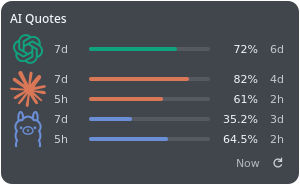
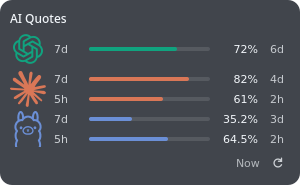
Release v1.3.0 with compact provider-colored quota cards

Changed region(s): [[0.0, 0.0, 0.99, 1.0], [0.99, 0.027, 1.0, 0.973]]

diff --git a/package/contents/ui/FullRepresentation.qml b/package/contents/ui/FullRepresentation.qml
@@ -30,7 +30,6 @@ PC.Control {
     readonly property bool showTitle: titleAlignment !== 3
     readonly property color surfaceColor: themeMode === 1 ? "#f8fafc" : themeMode === 2 ? "#171c25" : Kirigami.Theme.backgroundColor
     readonly property color inkColor: themeMode === 1 ? "#17212d" : themeMode === 2 ? "#f1f5f9" : Kirigami.Theme.textColor
-    readonly property color warningColor: themeMode === 1 ? "#9a6700" : themeMode === 2 ? "#f5c46b" : Kirigami.Theme.neutralTextColor
     readonly property color negativeColor: themeMode === 1 ? "#c02832" : themeMode === 2 ? "#ff7b86" : Kirigami.Theme.negativeTextColor
     property font labelFont: {
         const bodyFont = Lib.scaledFont(Kirigami.Theme.smallFont, 1);
@@ -116,15 +115,6 @@ PC.Control {
         objectName: "translucentSurface"
         radius: 12
         color: Qt.rgba(full.surfaceColor.r, full.surfaceColor.g, full.surfaceColor.b, Math.max(0, Math.min(100, full.backgroundOpacity)) / 100)
-        border.width: 1
-        border.color: Qt.rgba(full.inkColor.r, full.inkColor.g, full.inkColor.b, 0.07)
-    }
-
-    function quotaColor(value, providerId) {
-        if (typeof value !== "number") return full.inkColor;
-        if (value <= 10) return full.negativeColor;
-        if (value <= 25) return full.warningColor;
-        return Lib.colorFor(providerId);
     }
 
     contentItem: ColumnLayout {
@@ -167,8 +157,14 @@ PC.Control {
                     // The stock native tooltip limits its subtext line count.
                     // Keep its window, but provide an untruncated content item.
                     mainItem: Item {
-                        implicitWidth: Math.max(1, Math.min(360, Screen.desktopAvailableWidth - 32))
-                        implicitHeight: tooltipLabel.implicitHeight + 16
+                        implicitWidth: {
+                            let width = 0;
+                            provider.tooltipText.split("\n").forEach(function (line) {
+                                width = Math.max(width, full.textWidth(line));
+                            });
+                            return Math.max(1, Math.min(360, Math.ceil(width) + 12, Screen.desktopAvailableWidth - 32));
+                        }
+                        implicitHeight: tooltipLabel.implicitHeight + 12
                         Kirigami.Theme.colorSet: Kirigami.Theme.Window
                         Kirigami.Theme.inherit: false
                         PC.Label {
@@ -176,8 +172,9 @@ PC.Control {
                             anchors.left: parent.left
                             anchors.right: parent.right
                             anchors.top: parent.top
-                            anchors.margins: 8
+                            anchors.margins: 6
                             text: provider.tooltipText
+                            font: full.labelFont
                             textFormat: Text.PlainText
                             wrapMode: Text.Wrap
                         }
@@ -256,7 +253,7 @@ PC.Control {
                                         opacity: provider.stale ? 0.6 : 1
                                         caption: Lib.shortWindowLabel(window.modelData)
                                         inkColor: full.inkColor
-                                        accentColor: full.quotaColor(window.hasPercent ? window.modelData.remaining_percent : null, provider.modelData.id)
+                                        accentColor: Lib.colorFor(provider.modelData.id)
                                         valueObjectName: "quota_" + provider.modelData.id + "_" + window.modelData.key
                                         valueText: Lib.valueFor(provider.modelData, window.modelData, full.nowMs, full.maxAge)
                                         Accessible.name: provider.modelData.label + ", " + window.modelData.label + ", " + i18n("available") + ": " + valueText

diff --git a/package/contents/ui/lib.js b/package/contents/ui/lib.js
@@ -80,16 +80,17 @@ function providerSummary(provider, nowMs, maxAge) {
 
 function providerTooltip(provider, nowMs, maxAge) {
     var critical = headline(provider, nowMs, maxAge);
-    var lines = [provider.label + (isStale(provider, nowMs, maxAge) ? " · Stale data" : "")];
+    var lines = [provider.label + " · Available" + (isStale(provider, nowMs, maxAge) ? " · Stale data" : "")];
     (provider.windows || []).forEach(function (window) {
-        lines.push(window.label + ": " + valueFor(provider, window, nowMs, maxAge)
-            + " available" + (critical && critical.key === window.key ? " · Most restrictive" : ""));
-        lines.push(countdown(window.resets_at, nowMs)
-            + (window.resets_at ? " · " + Qt.formatDateTime(new Date(window.resets_at * 1000), Qt.locale().dateTimeFormat()) : ""));
+        var label = window.key === "purchased" ? window.label : shortWindowLabel(window);
+        lines.push(label + ": " + valueFor(provider, window, nowMs, maxAge)
+            + " · " + countdown(window.resets_at, nowMs)
+            + (window.resets_at ? " (" + Qt.formatDateTime(new Date(window.resets_at * 1000), "dd MMM, HH:mm") + ")" : ""));
     });
+    if (critical && !displayWindows(provider).some(function (window) { return window.key === critical.key; }))
+        lines.push("Most restrictive: " + critical.label);
     if (provider.message) lines.push(provider.message);
-    if (provider.source) lines.push(provider.source);
-    lines.push(ageLabel(provider.fetched_at, nowMs));
+    lines.push((provider.source ? provider.source + " · " : "") + ageLabel(provider.fetched_at, nowMs));
     return lines.join("\n");
 }
 
@@ -117,12 +118,7 @@ function countdown(epoch, nowMs) {
     if (!epoch) return "Reset time unavailable";
     var remaining = epoch - nowMs / 1000;
     if (remaining <= 0) return "Waiting for a new query";
-    var days = Math.floor(remaining / 86400);
-    var hours = Math.floor(remaining % 86400 / 3600);
-    var minutes = Math.floor(remaining % 3600 / 60);
-    if (days > 0) return "Resets in " + days + "d " + hours + "h";
-    if (hours > 0) return "Resets in " + hours + "h " + minutes + "m";
-    return "Resets in " + Math.max(1, minutes) + "m";
+    return "Resets in " + shortDuration(remaining);
 }
 
 function validTimestamp(epoch) {

diff --git a/tests/validate_ui.py b/tests/validate_ui.py
@@ -261,7 +261,8 @@ def validate():
             find_item(root, 'bar_claude_seven_day_sonnet') is None
             and find_item(root, 'bar_claude_five_hour') is not None
             and find_item(root, 'bar_claude_seven_day') is not None
-            and 'Sonnet · weekly: 3% available · Most restrictive' in tooltip)
+            and 'Sonnet · weekly: 3%' in tooltip
+            and 'Most restrictive: Sonnet · weekly' in tooltip)
         usd = json.loads(json.dumps(data))
         usd['providers'][2]['windows'] = [{'key': 'purchased', 'label': 'Purchased credits',
                                           'remaining_percent': None, 'remaining_usd': 25, 'resets_at': None}]
@@ -416,7 +417,7 @@ def validate():
         provider.forceActiveFocus()
         QTest.qWait(900)
         details = provider.property('tooltipText')
-        result['checks']['tooltip_keeps_all_windows_source_and_collection_age'] = all(t in details for t in ['5h', 'Weekly', 'Sonnet · weekly', 'Opus · weekly', '3% available', 'Demo — sample data', 'Updated now', 'Resets in'])
+        result['checks']['tooltip_keeps_all_windows_source_and_collection_age'] = all(t in details for t in ['Available', '5h', '7d', 'Sonnet · weekly: 3%', 'Opus · weekly: 30%', 'Most restrictive: Sonnet · weekly', 'Demo — sample data', 'Updated now', 'Resets in'])
         result['checks']['tooltip_visible_on_keyboard_focus'] = any(tooltip_events) and provider.hasActiveFocus()
         interface = QAccessible.queryAccessibleInterface(provider)
         result['checks']['provider_accessible_description_contains_full_details'] = interface is not None and interface.text(QAccessible.Description) == details
@@ -429,7 +430,7 @@ def validate():
         tooltip_labels = [item for w in tooltip_windows for item in text_items(w.contentItem())]
         result['tooltipGeometry'] = [{'width': w.width(), 'height': w.height()} for w in tooltip_windows]
         result['tooltipLabels'] = [{'height': i.height(), 'contentHeight': i.property('contentHeight'), 'truncated': i.property('truncated')} for i in tooltip_labels]
-        result['checks']['tooltip_escapes_small_card_window'] = any(w.height() > view.height() for w in tooltip_windows)
+        result['checks']['compact_tooltip_uses_separate_native_window'] = bool(tooltip_windows) and all(w is not view for w in tooltip_windows) and len(details.splitlines()) <= 7
         result['checks']['native_tooltip_full_content_not_clipped'] = bool(tooltip_labels) and all(not i.property('truncated') and i.height() >= i.property('contentHeight') - 1 for i in tooltip_labels)
         tooltip_contrasts = []
         for w in tooltip_windows:

diff --git a/README.pt-BR.md b/README.pt-BR.md
@@ -13,12 +13,13 @@ Widget para **KDE Plasma 6** que reúne as cotas disponíveis do **Codex**, **Cl
 ## Recursos
 
 - Lista vertical com ícones dos provedores, barras de quota disponível e tempo até a renovação.
+- As barras mantêm a cor de cada provedor em qualquer nível de quota.
 - Até duas janelas por provedor: `7d` e `5h`, quando disponíveis. A sessão do Ollama aparece como `5h`.
 - Reset em uma única unidade: `1w`, `4d`, `2h` ou `30m`.
 - Temas Automático, Claro e Escuro; opacidade do fundo ajustável de 0 a 100%.
 - Cartão responsivo sem rolagem. Linhas ocupam o espaço disponível; textos e ícones aumentam preservando um tamanho mínimo legível.
 - Título editável com alinhamento Left, Center, Right ou Disabled. Desativá-lo remove o espaço do cabeçalho.
-- Detalhes completos dos provedores no tooltip, por hover ou foco de teclado.
+- Tooltips compactos dos provedores, com períodos e datas de reset abreviados, por hover ou foco de teclado.
 - Rodapé com o botão de atualizar à direita e a idade do dado mais antigo imediatamente ao lado.
 - Atualização automática a cada dois minutos, configurável entre 1 e 15 minutos.
 - Representação compacta para o painel, com ícones distintos e nomes/valores acessíveis ao leitor de tela.
@@ -82,11 +83,11 @@ Com a carteira bloqueada, o widget informa que ela precisa ser desbloqueada. A a
 
 ## Aparência e uso
 
-Nas configurações, selecione os provedores, o intervalo de atualização, o tema e a opacidade do fundo. O padrão acompanha as cores do Plasma e usa **82% de opacidade**. A transparência afeta o fundo; textos e ícones mantêm sua nitidez. A representação no painel segue as cores do próprio painel.
+Nas configurações, selecione os provedores, o intervalo de atualização, o tema e a opacidade do fundo. O padrão acompanha as cores do Plasma e usa **82% de opacidade**. O fundo não tem borda, inclusive com 0% de opacidade. A transparência afeta o fundo; textos e ícones mantêm sua nitidez. A representação no painel segue as cores do próprio painel.
 
-- Passe o mouse ou use Tab para focar um provedor e ver todas as janelas, datas completas de reset, origem, idade da coleta e estado. As linhas não expandem ao clicar.
+- Passe o mouse ou use Tab para focar um provedor e ver todas as janelas, datas e horários locais de reset abreviados, origem, idade da coleta e estado. As linhas não expandem ao clicar.
 - Configure o texto e o alinhamento do título. Um campo vazio usa **AI Quotes**; o texto personalizado é preservado ao desativar o título.
-- Ajuste **Font size (pt)** para os textos do corpo, de 6 a 24 pt (padrão: **8 pt**). Esse tamanho base acompanha a escala do widget. O título mantém a fonte do Plasma.
+- Ajuste **Font size (pt)** para os textos do corpo e os tooltips dos provedores, de 6 a 24 pt (padrão: **8 pt**). O cartão amplia esse tamanho base conforme o espaço disponível; os tooltips usam o tamanho base diretamente. O título mantém a fonte do Plasma.
 - Em **Card elements**, habilite ou desabilite separadamente o ícone do provedor, o período da quota, a barra, o valor e o tempo até o reset. As cinco opções vêm ativadas. O valor representa a quota restante (percentual ou saldo). Essas opções valem para o cartão completo; os detalhes permanecem no tooltip do provedor.
 - O rodapé mostra **Now** para dados com menos de um minuto; depois, `1m`, `2m`, `1h`, `1d` ou `1w`. O texto muda nas viradas de minuto dos dados, independentemente das consultas. Ele usa o timestamp mais antigo: cache ou falha parcial podem manter uma idade maior mesmo após atualizar. Sem timestamp, mostra `—`.
 - Use o botão de atualizar para solicitar uma nova consulta.

diff --git a/README.md b/README.md
@@ -13,12 +13,13 @@ A compact **KDE Plasma 6** widget that brings together the available quotas for 
 ## Features
 
 - A vertical list with provider icons, remaining-quota bars, and time until reset.
+- Bars keep each provider's color at every quota level.
 - Up to two windows per provider: `7d` and `5h`, when available. Ollama's session is labeled `5h`.
 - Reset countdowns use a single unit: `1w`, `4d`, `2h`, or `30m`.
 - Automatic, light, and dark themes, with background opacity adjustable from 0 to 100%.
 - A responsive card without scrolling. Rows fill the available space; text and icons scale up while preserving a readable minimum.
 - A custom title with Left, Center, Right, or Disabled alignment. Disabling the title removes its space.
-- Complete provider details in tooltips, available by hover and keyboard focus.
+- Compact provider tooltips with short periods and reset dates, available by hover and keyboard focus.
 - A footer with the refresh button on the right and the age of the oldest data immediately beside it.
 - Automatic refresh every two minutes, configurable from 1 to 15 minutes.
 - A compact panel view with distinct icons and screen-reader-accessible provider names and values.
@@ -82,11 +83,11 @@ If the wallet is locked, the widget reports that it needs to be unlocked. Automa
 
 ## Appearance and usage
 
-Use the settings to choose providers, refresh interval, theme, and background opacity. By default, the widget follows Plasma's colors and uses **82% opacity**. Transparency affects the background; text and icons remain crisp. The compact panel view follows the panel's own colors.
+Use the settings to choose providers, refresh interval, theme, and background opacity. By default, the widget follows Plasma's colors and uses **82% opacity**. The background has no border, including at 0% opacity. Transparency affects the background; text and icons remain crisp. The compact panel view follows the panel's own colors.
 
-- Hover over a provider or focus it with Tab to see every quota window, full reset dates, source, collection age, and status. Provider rows do not expand when clicked.
+- Hover over a provider or focus it with Tab to see every quota window, abbreviated local reset dates and times, source, collection age, and status. Provider rows do not expand when clicked.
 - Set the title and its alignment in the widget settings. A blank title uses **AI Quotes**. Your custom text is preserved when the title is disabled.
-- Set **Font size (pt)** for the card's body text, from 6 to 24 pt (default: **8 pt**). This base size follows the widget's scale. The title keeps its Plasma font.
+- Set **Font size (pt)** for the card's body text and provider tooltips, from 6 to 24 pt (default: **8 pt**). The card scales this base size to fit; tooltips use the base size directly. The title keeps its Plasma font.
 - Under **Card elements**, independently show or hide the provider icon, quota period, progress bar, quota value, and reset countdown. All five are enabled by default. The value shows remaining quota (percentage or balance). These options apply to the full card; complete details remain in the provider tooltips.
 - The footer shows **Now** for data younger than a minute, then `1m`, `2m`, `1h`, `1d`, or `1w`. It updates at the data's minute boundaries, independently of provider queries. It uses the oldest provider timestamp, so cached data or a partial failure can keep an older age after refresh. If no timestamp is available, it shows `—`.
 - Use the refresh button to request a new query.
